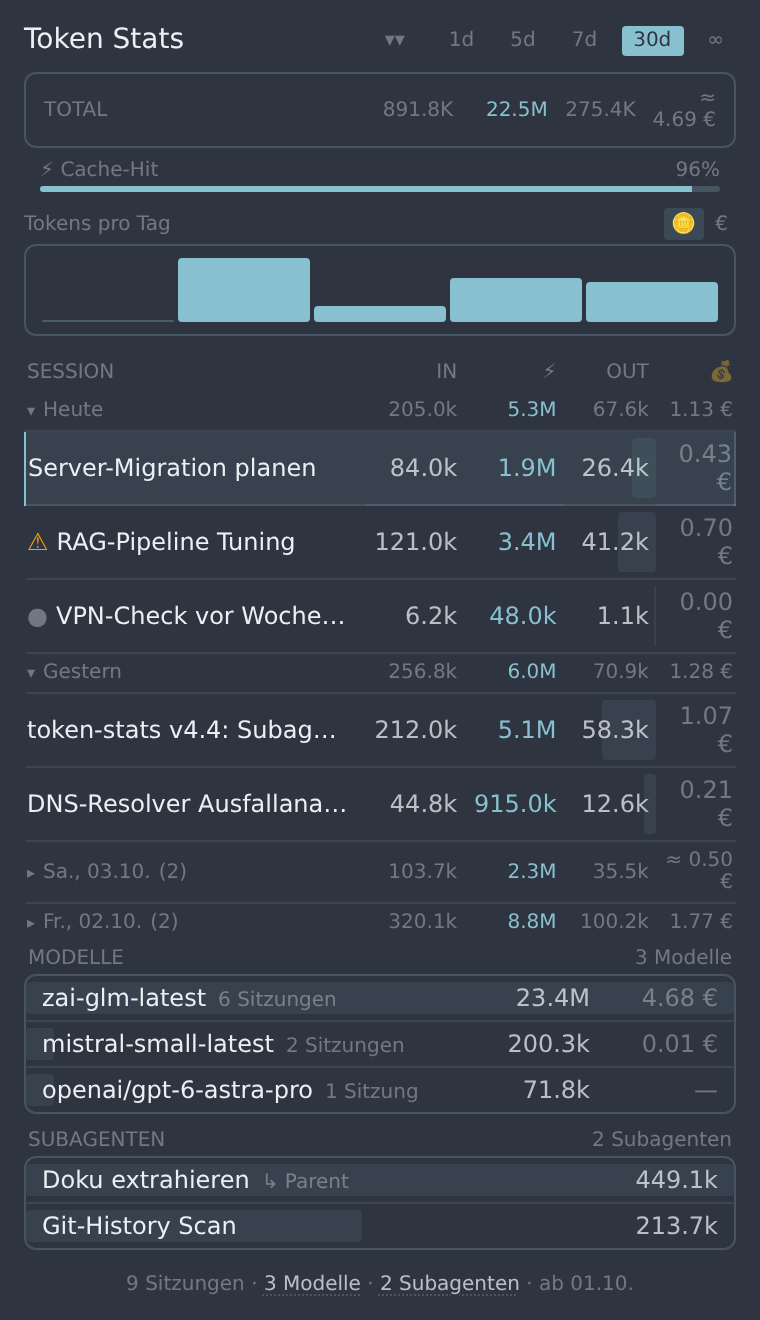
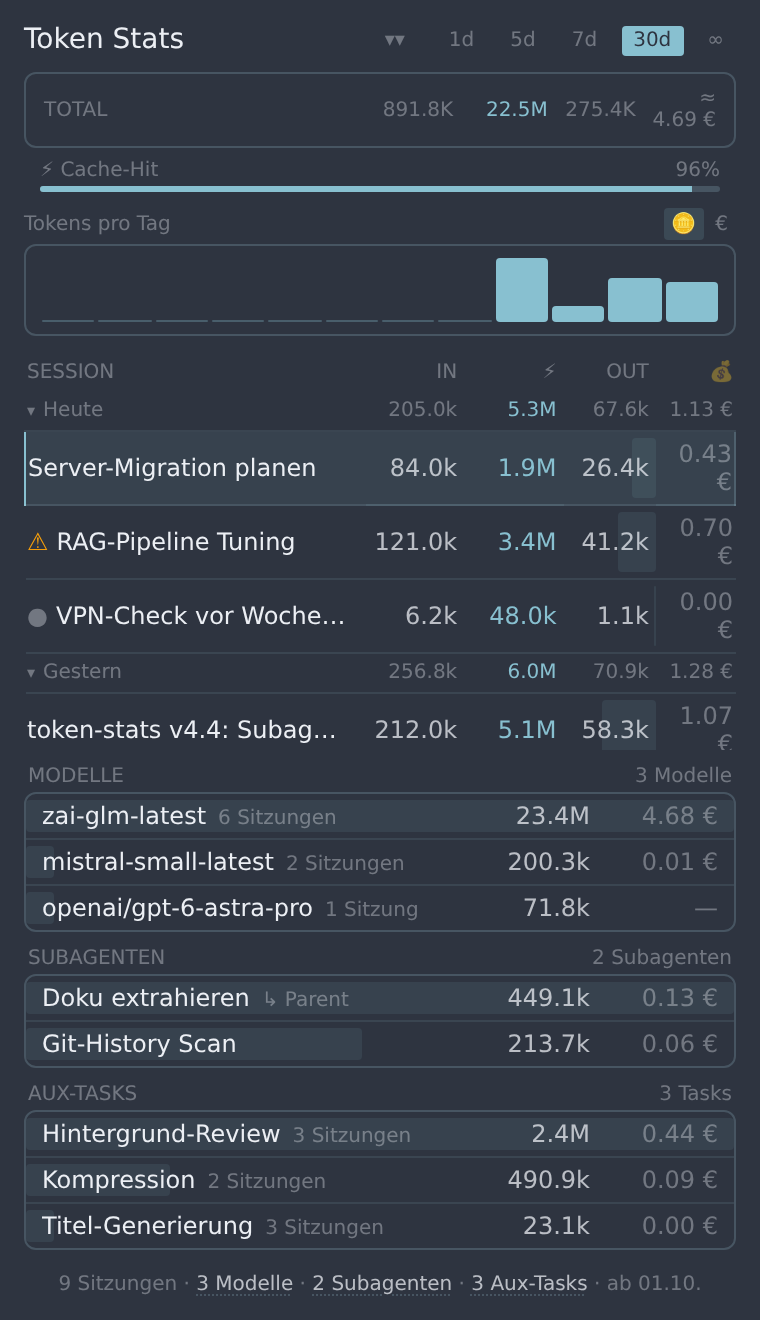
docs: refresh pane screenshot + web dashboard section
- Mockup updated to v4.7.1 render logic: aux-task breakdown list (third
  footer toggle) and per-row cost column in the subagent + aux lists
  (previously only the model list had a € column)
- Reshot docs/pane-example.png from the mockup (DOM-asserted: aux rows,
  cost columns, footer counters, bar geometry)
- README: screenshot caption now documents the per-row cost column and
  the aux-task list; new section for the web dashboard pane ported in
  the companion repo (deployed with the backend, same data source and
  logic, no chip / live overlay / focused-session breakdown)

diff --git a/docs/pane-mockup.html b/docs/pane-mockup.html
@@ -127,7 +127,7 @@
 </div>
 
 <script>
-// ── Logic copied 1:1 from plugin.js (v4.4.0) ──────────────────────────
+// ── Logic copied 1:1 from plugin.js (v4.7.1) ──────────────────────────
 const PRICES = {
   'zai-glm-latest': { input: 1.40, cached: 0.14, output: 4.40 },
   'mistral-small-latest': { input: 0.15, cached: 0.015, output: 0.60 },
@@ -266,12 +266,53 @@ for (const r of rows) {
 const modelAggList = Object.values(modelAgg).sort((a, b) => (b.in + b.cached + b.out) - (a.in + a.cached + a.out))
 const maxModelTotal = modelAggList.reduce((m, e) => Math.max(m, e.in + e.cached + e.out), 0)
 
-// Subagent rows (window has 2, list open)
+// Subagent rows (window has 2, list open). Costs are priced PER MODEL ROW
+// of the subagent (v4.7.1) — mockup: one model per subagent.
 const subRows = [
-  { id: 'sub1', title: 'Doku extrahieren', parent: true, in: 38_000, cached: 402_000, out: 9_100, calls: 12 },
-  { id: 'sub2', title: 'Git-History Scan', parent: false, in: 21_400, cached: 188_000, out: 4_300, calls: 7 },
+  { id: 'sub1', title: 'Doku extrahieren', parent: true, calls: 12,
+    models: [['zai-glm-latest', { in: 38_000, cached: 402_000, out: 9_100 }]] },
+  { id: 'sub2', title: 'Git-History Scan', parent: false, calls: 7,
+    models: [['zai-glm-latest', { in: 21_400, cached: 188_000, out: 4_300 }]] },
 ]
+for (const sr of subRows) {
+  sr.in = 0; sr.cached = 0; sr.out = 0; sr.cost = 0; sr.unpriced = false
+  for (const [mo, v] of sr.models) {
+    sr.in += v.in; sr.cached += v.cached; sr.out += v.out
+    const c = estimateCost({ model: mo, input: v.in, cache_read: v.cached, output: v.out })
+    if (c != null) sr.cost += c; else sr.unpriced = true
+  }
+}
 const maxSubTotal = subRows.reduce((m, e) => Math.max(m, e.in + e.cached + e.out), 0)
+
+// Aux-task rows (v4.7.0/4.7.1, third footer toggle): grouped by task like
+// auxAgg — background review dominates. View-only; counts already fully
+// inside the session totals. German labels via AUX_LABELS.
+const AUX_LABELS = {
+  background_review: 'Hintergrund-Review',
+  compression: 'Kompression',
+  vision: 'Vision',
+  title_generation: 'Titel-Generierung',
+  approval: 'Approval',
+}
+const auxLabel = (t) => AUX_LABELS[t] || t
+const auxAggList = [
+  { task: 'background_review', calls: 41, sessions: new Set(['s1', 's2', 's4']),
+    models: [['zai-glm-latest', { in: 96_400, cached: 2_310_000, out: 14_800, calls: 41 }]] },
+  { task: 'compression', calls: 12, sessions: new Set(['s1', 's8']),
+    models: [['zai-glm-latest', { in: 15_300, cached: 380_000, out: 7_200, calls: 8 }],
+             ['mistral-small-latest', { in: 6_000, cached: 80_000, out: 2_400, calls: 4 }]] },
+  { task: 'title_generation', calls: 9, sessions: new Set(['s4', 's5', 's6']),
+    models: [['mistral-small-latest', { in: 6_800, cached: 14_200, out: 2_100, calls: 9 }]] },
+]
+for (const a of auxAggList) {
+  a.in = 0; a.cached = 0; a.out = 0; a.cost = 0; a.unpriced = false
+  for (const [mo, v] of a.models) {
+    a.in += v.in; a.cached += v.cached; a.out += v.out
+    const c = estimateCost({ model: mo, input: v.in, cache_read: v.cached, output: v.out })
+    if (c != null) a.cost += c; else a.unpriced = true
+  }
+}
+const maxAuxTotal = auxAggList.reduce((m, e) => Math.max(m, e.in + e.cached + e.out), 0)
 
 const W = [48, 14, 14, 13, 11]  // persisted column widths
 
@@ -468,6 +509,42 @@ const subList = el('div', 'shrink-0', null, [
         ]),
         el('div', 'relative z-10 flex items-center shrink tabular-nums text-secondary', 'gap:8px', [
           el('span', null, null, txt(fmt(total))),
+          el('span', 'text-quaternary min-w-0 text-right', 'min-width:3.5rem',
+            txt(sr.cost > 0 ? (sr.unpriced ? '≈ ' : '') + (sr.cost * EUR_RATE).toFixed(2) + ' €' : '—')),
+        ]),
+      ])
+    })),
+])
+
+// Aux-task list (open, third footer toggle) — same pattern as the model list
+const auxList = el('div', 'shrink-0', null, [
+  el('div', 'flex items-center justify-between text-[0.625rem] text-quaternary mb-0.5 px-0.5', null, [
+    el('span', 'uppercase', null, txt('Aux-Tasks')),
+    el('span', 'tabular-nums', null, txt(`${auxAggList.length} Task${auxAggList.length === 1 ? '' : 's'}`)),
+  ]),
+  el('div', 'rounded-md border stroke-secondary-full divide max-h-40 overflow-auto', null,
+    auxAggList.map(a => {
+      const total = a.in + a.cached + a.out
+      const tip = a.sessions.size === 1 ? '1 Sitzung' : `${a.sessions.size} Sitzungen`
+      const bar = maxAuxTotal > 0 && total > 0
+        ? el('div', null,
+            `position:absolute;top:3px;bottom:3px;left:0;border-radius:2px;background:var(--ui-accent);opacity:0.1;width:${Math.max(4, total / maxAuxTotal * 100)}%;`)
+        : null
+      const modelTip = a.models.length > 1
+        ? '\nModelle: ' + a.models.map(([mo, v]) => `${mo}: in ${fmt(v.in)}, ⚡ ${fmt(v.cached)}, out ${fmt(v.out)}`).join(' · ')
+        : ''
+      return el('div', 'relative flex items-center justify-between gap-2 px-2 py-1 overflow-hidden',
+        `title:${auxLabel(a.task)} (${a.task})\nIn: ${fmtFull(a.in)} · ⚡: ${fmtFull(a.cached)} · Out: ${fmtFull(a.out)}\nGesamt: ${fmtFull(total)} Tokens · Calls: ${fmtFull(a.calls)} · ${tip}${a.cost > 0 ? ` · Geschätzt: ${(a.cost * EUR_RATE).toFixed(2)} € (USD ${a.cost.toFixed(2)})${a.unpriced ? ' (≈ — unpriced Rows ausgeschlossen)' : ''}` : ''}${modelTip}`,
+        [
+        bar,
+        el('div', 'relative z-10 flex items-baseline gap-1.5 min-w-0', null, [
+          el('span', 'truncate font-medium', null, txt(auxLabel(a.task))),
+          el('span', 'text-[0.625rem] text-quaternary shrink', null, txt(tip)),
+        ]),
+        el('div', 'relative z-10 flex items-center shrink tabular-nums text-secondary', 'gap:8px', [
+          el('span', null, null, txt(fmt(total))),
+          el('span', 'text-quaternary min-w-0 text-right', 'min-width:3.5rem',
+            txt(a.cost > 0 ? (a.unpriced ? '≈ ' : '') + (a.cost * EUR_RATE).toFixed(2) + ' €' : '—')),
         ]),
       ])
     })),
@@ -481,10 +558,13 @@ const footer = el('div', 'shrink-0 text-[0.625rem] text-quaternary text-center p
   txt(' · '),
   el('button', 'text-secondary font-medium cursor-pointer underline decoration-dotted underline-offset-2',
     'text-decoration-color:var(--ui-stroke-secondary)', txt(`${subRows.length} Subagenten`)),
+  txt(' · '),
+  el('button', 'text-secondary font-medium cursor-pointer underline decoration-dotted underline-offset-2',
+    'text-decoration-color:var(--ui-stroke-secondary)', txt(`${auxAggList.length} Aux-Tasks`)),
   txt(` · ${windowLabel()}`),
 ])
 
-pane.append(header, summary, cacheBar, histCard, listWrap, modelList, subList, footer)
+pane.append(header, summary, cacheBar, histCard, listWrap, modelList, subList, auxList, footer)
 </script>
 </body>
 </html>

diff --git a/README.md b/README.md
@@ -47,9 +47,11 @@ columns, ⚡ cache-hit bar, mini histogram (tokens per day over the window),
 collapsible day-group separator rows with per-day totals, focused session
 highlighted with the accent left border. `●` marks a live-only session, `⚠`
 a ledger-recorded DB reset, `≈` on totals indicates unpriced rows excluded,
-`—` marks missing values (unpriced model / no cache). The footer toggles open
-the per-model, per-subagent and per-aux-task breakdown lists (bottom-pinned,
-with relative size bars).*
+`—` marks missing values (unpriced model / no cache). The footer toggles
+open the per-model, per-subagent and per-aux-task breakdown lists
+(bottom-pinned, relative size bars, per-row estimated cost — `—` when a
+model has no price, `≈` when unpriced rows were excluded from the row's
+estimate).*
 
 > The screenshot is generated from `docs/pane-mockup.html` — a standalone
 > 1:1 mockup of the pane's render logic with sample data (the live pane
@@ -78,6 +80,26 @@ Then in the app: ⌘K → **Reload desktop plugins**.
 
 > The app loads plugins from ITS OWN disk — editing a copy on a remote gateway
 > host does nothing for a desktop running on another machine.
+
+## Web dashboard pane
+
+The companion repo also ships a **web port of the pane** (`web-entry.js`,
+served by the Hermes web dashboard — the same gateway process that runs the
+known-ledger backend). It renders as a dashboard page at `/token-stats`:
+
+- Same data source (ledger backend over HTTP, 30 s polling — the web UI has
+  no `session.usage` event stream, so there is no live overlay; the daemon
+  poll interval is the floor)
+- Same pricing table, cost estimation, calendar windows and aggregation
+  logic as the desktop pane — both are kept in lockstep, the desktop plugin
+  is the reference implementation
+- Same breakdown lists (models, subagents, aux tasks), histogram and
+  drag-resizable columns; the statusbar chip and the focused-session
+  breakdown overlay are desktop-only
+
+No separate install: it deploys with the backend (`install.sh` of the
+[companion repo](https://github.com/AndiAtom/hermes-usage-history-rpc)),
+then the dashboard serves it automatically.
 
 ## Data flow (known / live / max)
 
